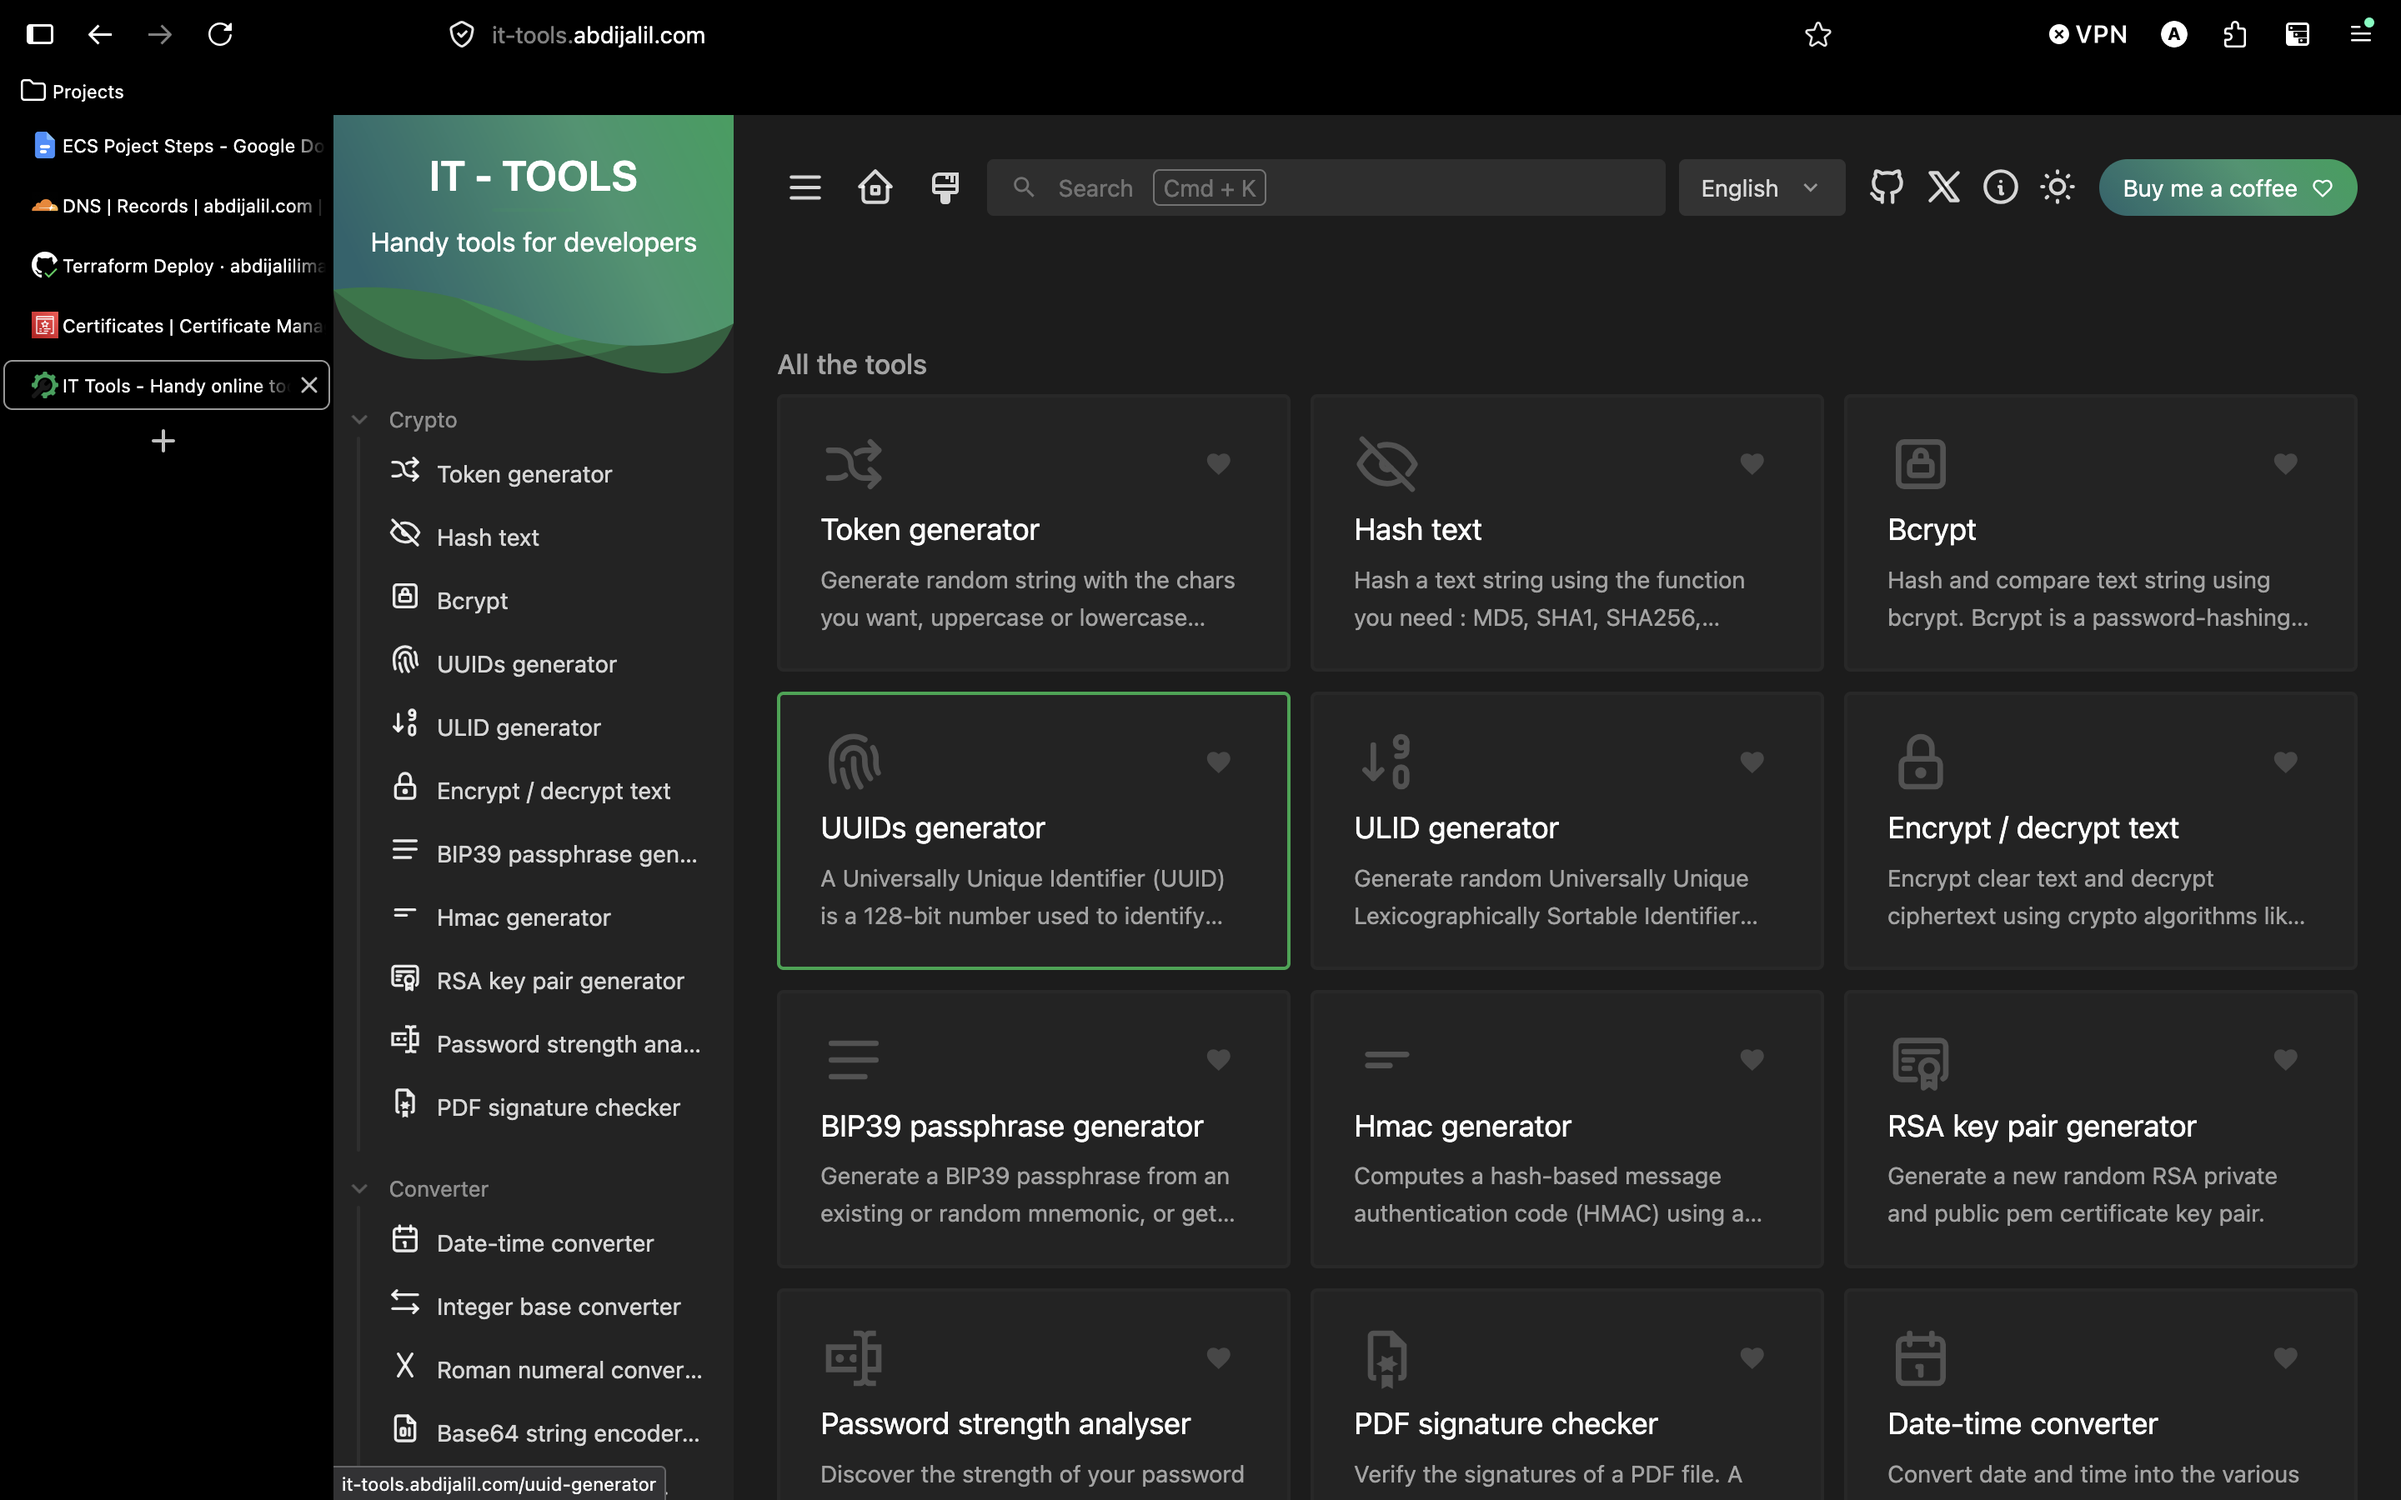
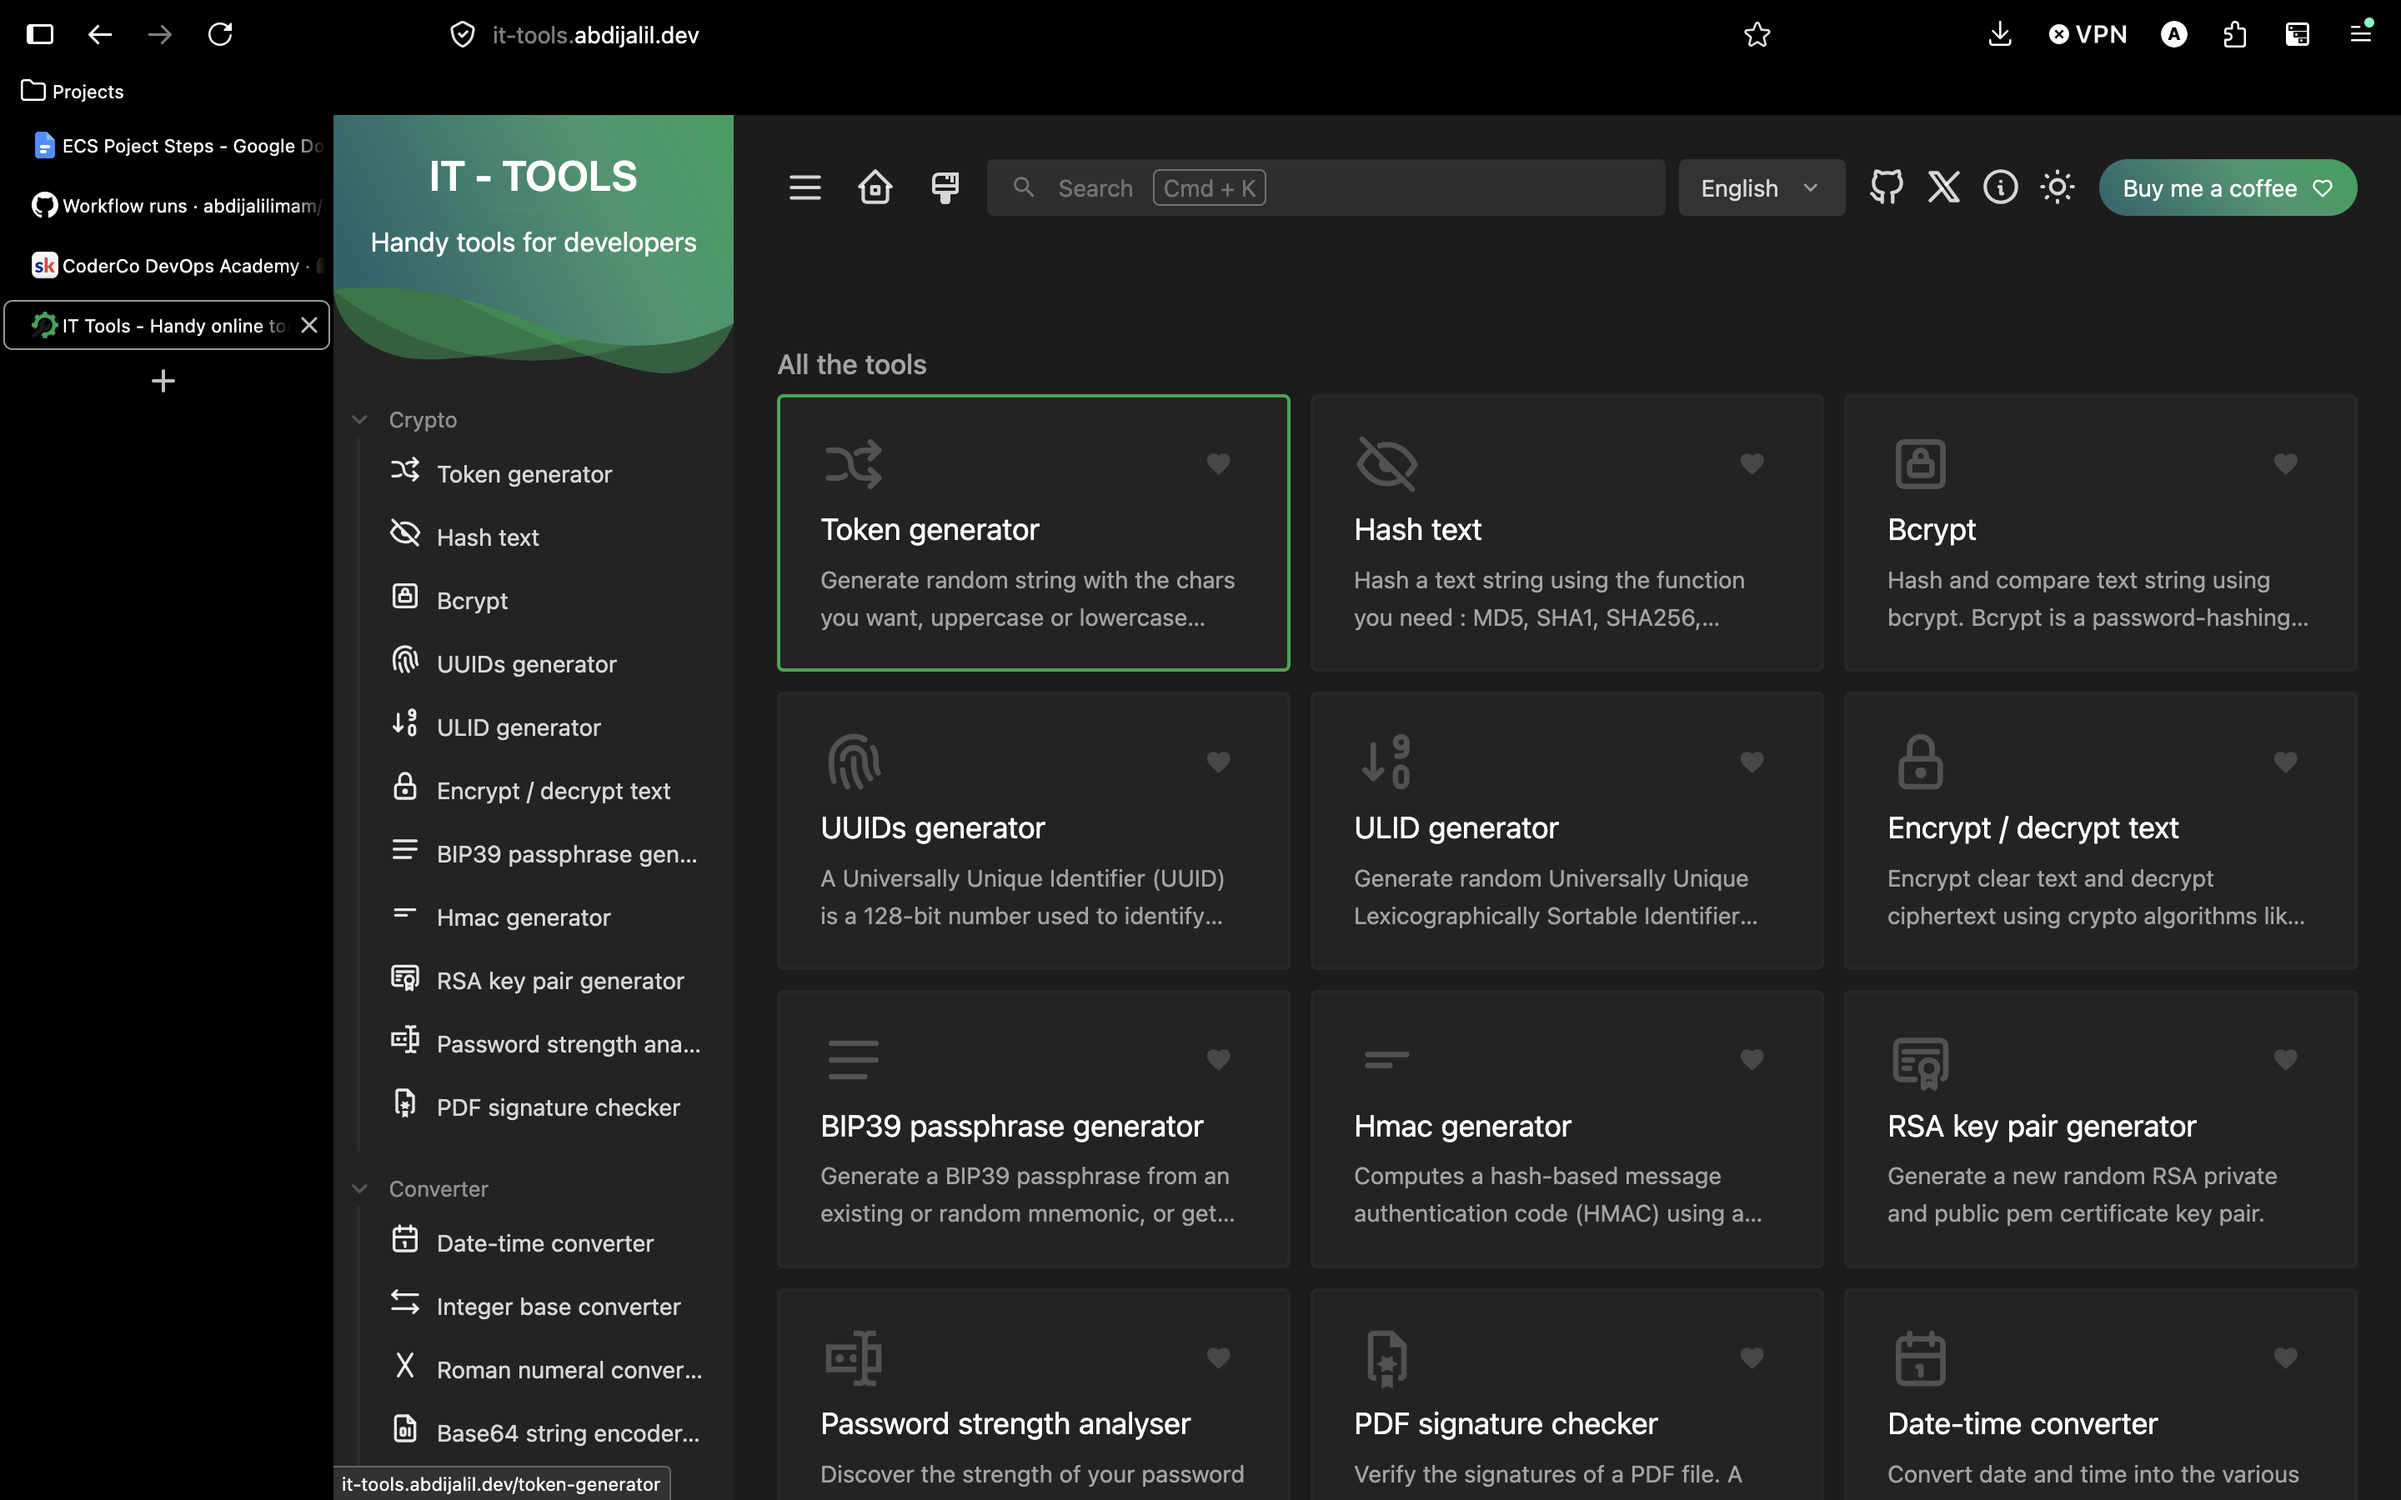
added readme screenshots

diff --git a/README.md b/README.md
@@ -115,6 +115,22 @@ http://localhost
 
 ---
 
-## Screenshots
+## App Demo
 
-See `screenshots/` documentation from local development to live production.
+![App running with HTTPS](screenshots/phase-7/app.png)
+
+---
+
+## Pipeline Screenshots
+
+**Docker Build and Push**
+![Docker Build Pipeline](screenshots/phase-7/docker-build.png)
+
+**Terraform Deploy**
+![Terraform Deploy Pipeline](screenshots/phase-7/terraform-deploy.png)
+
+**Terraform Destroy**
+![Terraform Destroy Pipeline](screenshots/phase-7/terraform-destroy.png)
+
+**Health Check**
+![Health Check Passing](screenshots/phase-7/healthcheck.png)
